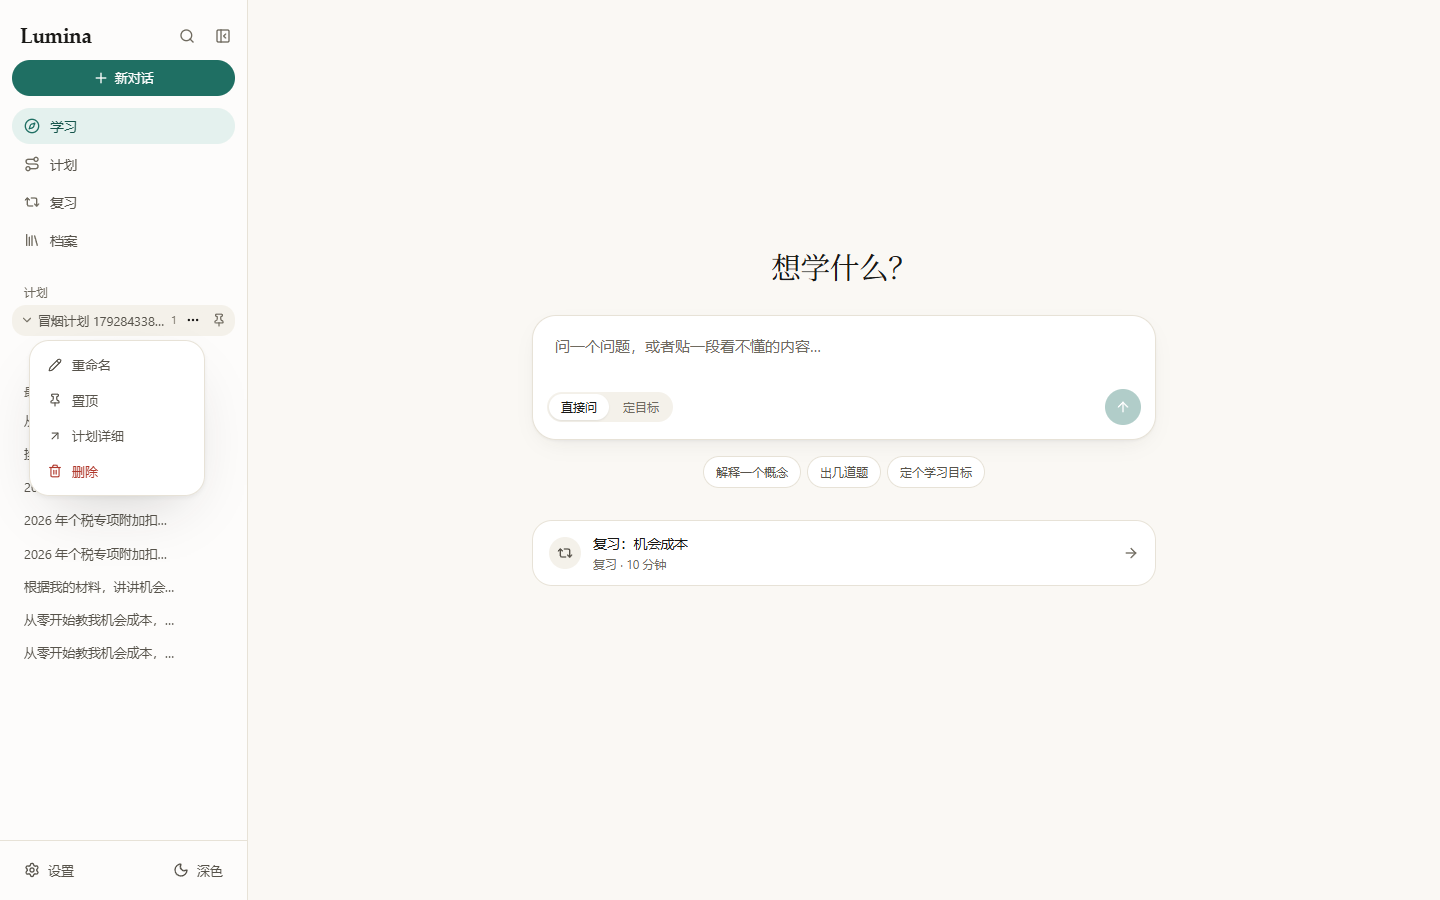
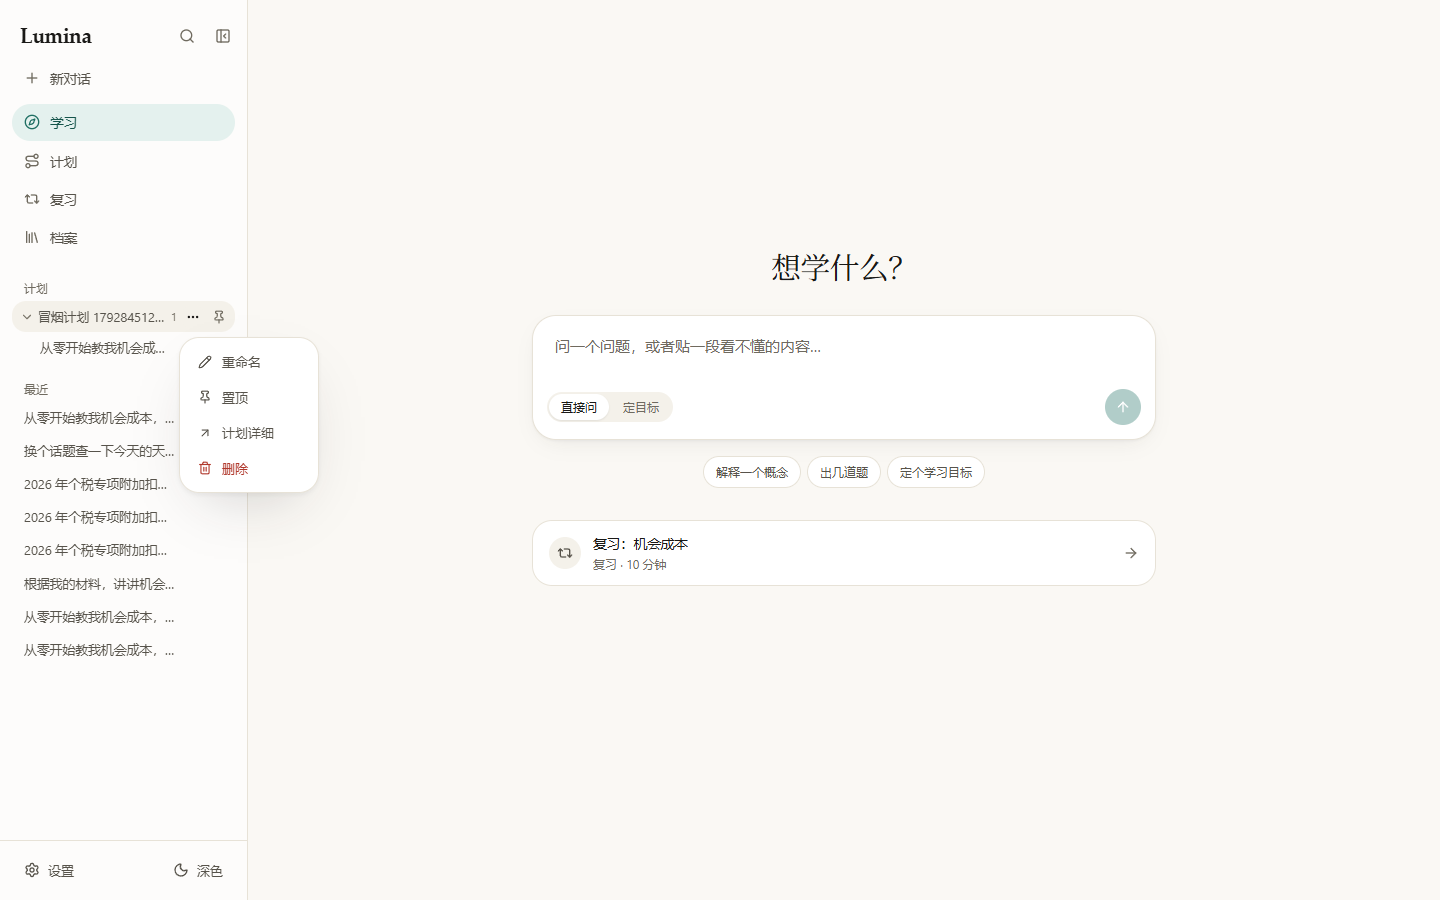
fix(侧栏): 菜单往右挪出一半并收窄，新对话改成普通导航项
按反馈微调：

- 三个点菜单改成 portal + fixed 定位，面板中心压在侧栏右边缘，刚好一半露在栏外；
  侧栏列表是滚动容器、外层还有 backdrop-blur，绝对定位面板会被裁掉，露不出去
- 侧栏菜单宽度从 11rem 收到 8.75rem，4 项文字仍完整；保留靠窗口底部自动上翻
- 「新对话」去掉实心强调药丸，改成和 学习/计划/复习/档案 同一套行式导航样式
  （相同圆角、内边距、字号、悬停底色、图标色；折叠态图标尺寸也一致）

验证：tsc 0；build 通过（BUILD_ID kiii1cubqSs9ZcnxjLzlT）并重启 3210；
浏览器总览 92/92（新增：菜单一半露出侧栏、菜单更窄）；
侧栏专项 36/36（新增：新对话与导航同样式、菜单一半露出、菜单更窄）；
冒烟 83/83；设置专项 45/45；单测 183/183

diff --git a/src/components/ui/kit.tsx b/src/components/ui/kit.tsx
@@ -3,7 +3,8 @@
 import { clsx } from "clsx";
 import { twMerge } from "tailwind-merge";
 import { Loader2, MoreHorizontal, X } from "lucide-react";
-import { useEffect, useRef, type ReactNode, useState } from "react";
+import { useEffect, useRef, type ReactNode, useState, createContext, useContext, useLayoutEffect } from "react";
+import { createPortal } from "react-dom";
 import { DISPLAY_STATUS_LABEL, type ConceptDisplayStatus, type ConceptStatus } from "@/lib/types";
 
 export const cx = (...parts: Parameters<typeof clsx>) => twMerge(clsx(...parts));
@@ -242,6 +243,9 @@ export function IconButton({
   );
 }
 
+/** 菜单项点击后通知外层收起（portal 模式没有 <details> 可关） */
+const MenuCloseContext = createContext<(() => void) | null>(null);
+
 /**
  * 溢出菜单：把"次要但偶尔要用的动作"收起来。
  * 默认向下展开（贴着触发按钮，不会顶出屏幕），也可指定向上（用于页面底部的输入区）。
@@ -253,6 +257,9 @@ export function OverflowMenu({
   placement = "bottom",
   compact = false,
   ariaLabel,
+  portal = false,
+  overhang = false,
+  narrow = false,
   children,
   className,
 }: {
@@ -263,12 +270,25 @@ export function OverflowMenu({
   compact?: boolean;
   /** 只给读屏用的名称（紧凑按钮不显示文字） */
   ariaLabel?: string;
+  /**
+   * 挂到 body 上、fixed 定位。侧栏这类带滚动/模糊的容器会裁掉绝对定位面板，
+   * 想在侧栏边缘露出一半就必须走 portal。
+   */
+  portal?: boolean;
+  /** portal 模式下把面板中心对齐到按钮右边缘（刚好一半在侧栏外） */
+  overhang?: boolean;
+  /** 窄面板（侧栏用），避免挡掉半个屏幕 */
+  narrow?: boolean;
   children: ReactNode;
   className?: string;
 }) {
   const ref = useRef<HTMLDetailsElement>(null);
+  const btnRef = useRef<HTMLButtonElement>(null);
+  const panelRef = useRef<HTMLDivElement>(null);
   // 面板默认向下展开；靠近窗口底部（侧栏最后几条）时自动向上，避免被裁掉
   const [flip, setFlip] = useState(false);
+  const [open, setOpen] = useState(false);
+  const [pos, setPos] = useState<{ left: number; top: number } | null>(null);
 
   const updateFlip = () => {
     const summary = ref.current?.querySelector("summary");
@@ -296,6 +316,99 @@ export function OverflowMenu({
       document.removeEventListener("keydown", onKey);
     };
   }, []);
+
+  useEffect(() => {
+    if (!portal || !open) return;
+    const onPointerDown = (e: PointerEvent) => {
+      const target = e.target as Node;
+      if (btnRef.current?.contains(target) || panelRef.current?.contains(target)) return;
+      setOpen(false);
+    };
+    const onKey = (e: KeyboardEvent) => {
+      if (e.key === "Escape") {
+        setOpen(false);
+        btnRef.current?.focus();
+      }
+    };
+    // 滚动时位置会漂，直接收起
+    const onScroll = () => setOpen(false);
+    document.addEventListener("pointerdown", onPointerDown);
+    document.addEventListener("keydown", onKey);
+    window.addEventListener("scroll", onScroll, true);
+    return () => {
+      document.removeEventListener("pointerdown", onPointerDown);
+      document.removeEventListener("keydown", onKey);
+      window.removeEventListener("scroll", onScroll, true);
+    };
+  }, [portal, open]);
+
+  // 打开后按按钮位置定位；放不下就上下翻转，左右夹在窗口内
+  useLayoutEffect(() => {
+    if (!portal || !open) return;
+    const btn = btnRef.current;
+    const panel = panelRef.current;
+    if (!btn || !panel) return;
+    const r = btn.getBoundingClientRect();
+    const pr = panel.getBoundingClientRect();
+    const w = pr.width || 150;
+    const h = pr.height || 160;
+    // 露出侧栏时以侧栏边缘为基准：面板中心刚好压在边线上，一半在栏外
+    let left = overhang
+      ? (btn.closest("aside")?.getBoundingClientRect().right ?? r.right) - w / 2
+      : align === "right"
+        ? r.right - w
+        : r.left;
+    left = Math.max(8, Math.min(left, window.innerWidth - w - 8));
+    let top = r.bottom + 8;
+    if (top + h > window.innerHeight - 8) top = Math.max(8, r.top - h - 8);
+    setPos({ left, top });
+  }, [portal, open, overhang, align]);
+
+  if (portal) {
+    const summaryClass = cx(
+      "flex shrink-0 cursor-pointer items-center justify-center gap-1 rounded-full text-ink3 transition-colors hover:bg-panel2 hover:text-ink",
+      compact ? "size-6" : "h-8",
+      label ? "px-2.5" : compact ? "" : "w-8",
+    );
+    return (
+      <>
+        <button
+          ref={btnRef}
+          type="button"
+          aria-haspopup="menu"
+          aria-expanded={open}
+          aria-label={label || ariaLabel || "更多操作"}
+          onClick={() => setOpen((v) => !v)}
+          className={summaryClass}
+        >
+          <MoreHorizontal className={compact ? "size-3.5" : "size-4"} />
+          {label ? <span className="text-[13px]">{label}</span> : null}
+        </button>
+        {open
+          ? createPortal(
+              <MenuCloseContext.Provider value={() => setOpen(false)}>
+                <div
+                  ref={panelRef}
+                  role="menu"
+                  style={{
+                    left: pos?.left ?? -9999,
+                    top: pos?.top ?? -9999,
+                    visibility: pos ? "visible" : "hidden",
+                  }}
+                  className={cx(
+                    "fixed z-50 overflow-hidden rounded-2xl border border-line bg-panel p-1.5 shadow-[var(--shadow-lg)] animate-pop",
+                    narrow ? "min-w-[8.75rem]" : "min-w-[11rem]",
+                  )}
+                >
+                  {children}
+                </div>
+              </MenuCloseContext.Provider>,
+              document.body,
+            )
+          : null}
+      </>
+    );
+  }
 
   return (
     <details
@@ -340,6 +453,7 @@ export function MenuItem({
   tone?: "neutral" | "danger";
   disabled?: boolean;
 }) {
+  const closeMenu = useContext(MenuCloseContext);
   return (
     <button
       type="button"
@@ -347,7 +461,8 @@ export function MenuItem({
       disabled={disabled}
       onClick={(e) => {
         // 选完就收起菜单，省得用户再点一次
-        (e.currentTarget.closest("details") as HTMLDetailsElement | null)?.removeAttribute("open");
+        if (closeMenu) closeMenu();
+        else (e.currentTarget.closest("details") as HTMLDetailsElement | null)?.removeAttribute("open");
         onClick();
       }}
       className={cx(

diff --git a/src/components/layout/AppShell.tsx b/src/components/layout/AppShell.tsx
@@ -163,17 +163,18 @@ export default function AppShell({ children }: { children: React.ReactNode }) {
         )}
       </div>
 
-      <div className="px-3 pb-2">
+      <div className={cx("pb-1", expanded ? "px-3" : "px-2")}>
+        {/* 和下面的导航项同一套样式：同样的圆角、内边距、悬停底色 */}
         <Link
           href="/"
           title="新对话"
           className={cx(
-            "flex items-center justify-center gap-1.5 rounded-full bg-accent text-[13px] font-medium text-white transition-all hover:brightness-110",
-            expanded ? "px-3 py-2" : "size-10",
+            "flex items-center rounded-full text-ink2 transition-colors hover:bg-panel2 hover:text-ink",
+            expanded ? "gap-2.5 px-3 py-2" : "h-10 justify-center",
           )}
         >
-          <Plus className="size-4" />
-          {expanded ? "新对话" : <span className="sr-only">新对话</span>}
+          <Plus className="size-4 text-ink3" />
+          {expanded ? <span className="text-[13.5px]">新对话</span> : <span className="sr-only">新对话</span>}
         </Link>
       </div>
 

diff --git a/src/components/layout/SidebarChats.tsx b/src/components/layout/SidebarChats.tsx
@@ -153,7 +153,7 @@ export default function SidebarChats({
         {s.title}
       </Link>
       <div className="flex shrink-0 items-center gap-0.5 opacity-0 transition-opacity focus-within:opacity-100 group-hover:opacity-100">
-        <OverflowMenu compact ariaLabel="对话操作" align="right">
+        <OverflowMenu compact portal overhang narrow ariaLabel="对话操作">
           <MenuItem onClick={() => setRename({ type: "session", session: s })}>
             <Pencil className="size-3.5" />
             重命名
@@ -211,7 +211,7 @@ export default function SidebarChats({
             ) : null}
           </button>
           <div className="flex shrink-0 items-center gap-0.5 opacity-0 transition-opacity focus-within:opacity-100 group-hover:opacity-100">
-            <OverflowMenu compact ariaLabel="计划操作" align="right">
+            <OverflowMenu compact portal overhang narrow ariaLabel="计划操作">
               <MenuItem onClick={() => setRename({ type: "plan", plan: p })}>
                 <Pencil className="size-3.5" />
                 重命名

diff --git a/docs/AUDIT_2026-10-24.md b/docs/AUDIT_2026-10-24.md
@@ -996,3 +996,30 @@ node scripts/audit/repro.cjs
 | 设置专项 | **45/45** |
 | 单元/集成 | **183/183** |
 | 截图 | 已重拍 `sidebar-search.png`、`sidebar-sections.png`、`sidebar-row-actions.png`、`sidebar-session-menu.png`、`sidebar-plan-menu.png`、`sidebar-pinned.png`、`sidebar-collapsed.png` |
+
+---
+
+## 20. 侧栏再微调：菜单往右挪出一半、菜单变窄、新对话改成普通导航项
+
+反馈："三个点菜单位置往右移刚好一半超出侧边栏，菜单还得窄一点，新对话的样式改成跟其他的一样，就是跟下面功能一个样式。"
+
+### 20.1 改动
+
+1. **菜单一半露出侧栏**：面板改成 portal 挂到 body、`position: fixed`，水平中心压在侧栏右边缘上——一半在栏内、一半在栏外。
+   - 不能再用绝对定位：侧栏列表是滚动容器（再加 `backdrop-blur`），绝对定位面板会被裁掉，露不出去
+   - 顺带保留"靠窗口底部自动向上、左右夹在窗口内"
+2. **菜单更窄**：侧栏菜单 `min-w` 从 11rem 收到 8.75rem；仍保持 4 项文字完整
+3. **新对话跟导航一样**：去掉实心强调药丸，改成和「学习 / 计划 / 复习 / 档案」一致的行式导航项（同样的圆角、内边距、字号、悬停底色、图标色）；折叠成图标栏时也和导航图标同尺寸
+
+### 20.2 验证
+
+| 项目 | 结果 |
+|---|---|
+| `tsc --noEmit` | 0 错误 |
+| `next build` | 通过（`BUILD_ID kiii1cubqSs9ZcnxjLzlT`），3210 已重启，health 200 |
+| 浏览器总览 | **92/92**（新增：会话菜单一半露出侧栏、会话菜单比默认窄） |
+| 侧栏专项 | **36/36**（新增：新对话与导航同样式、菜单一半露出侧栏、菜单更窄） |
+| API 冒烟 | **83/83** |
+| 设置专项 | **45/45** |
+| 单元/集成 | **183/183** |
+| 截图 | 已重拍 `sidebar-search.png`、`sidebar-sections.png`、`sidebar-row-actions.png`、`sidebar-session-menu.png`、`sidebar-plan-menu.png`、`sidebar-pinned.png`、`sidebar-collapsed.png` |
